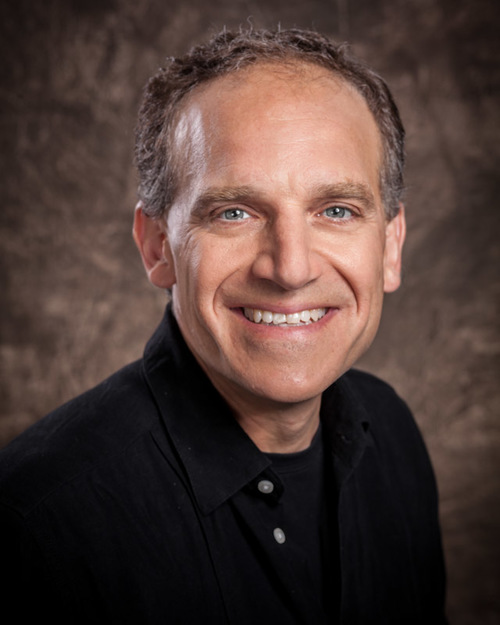
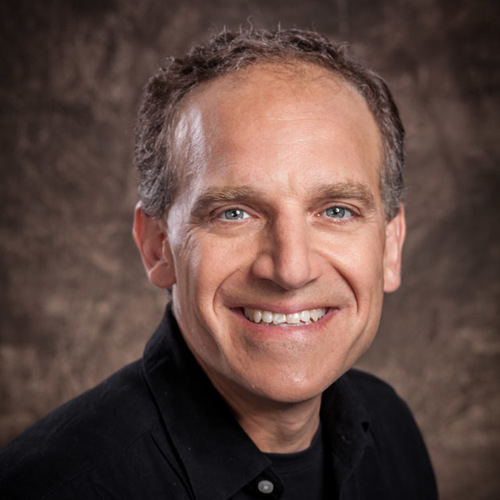
Fixed #63, moved pixi to canvas

diff --git a/static/src/assets/js/viz.js b/static/src/assets/js/viz.js
@@ -1,5 +1,5 @@
 import d3 from 'd3'
-import PIXI from 'pixi.js'
+
 
 /**
  * Voronoi graph as an illustration of dividing cells.
@@ -7,16 +7,19 @@ import PIXI from 'pixi.js'
  * @return {none}    just calls render() at the end
  */
 export default function(id) {
+  const canvas = document.createElement('canvas')
   // ==== PIXI renderer ====
-  const W = window.innerWidth
-  const H = window.innerHeight
-  const renderer = new PIXI.autoDetectRenderer(W, H, { transparent: true, antialias: true })
-  document.getElementById(id).appendChild(renderer.view)
+  const W = canvas.width = window.innerWidth
+  const H = canvas.height = window.innerHeight
+  // const renderer = new PIXI.autoDetectRenderer(W, H, { transparent: true, antialias: true })
+  document.getElementById(id).appendChild(canvas)
+
+  const ctx = canvas.getContext('2d')
 
   // PIXI stage and graphics child
-  let stage = new PIXI.Container()
-  let graphics = new PIXI.Graphics()
-  stage.addChild(graphics)
+  // let stage = new PIXI.Container()
+  // let graphics = new PIXI.Graphics()
+  // stage.addChild(graphics)
 
   // ==== Nodes ====
   const numFactor = 10000
@@ -55,17 +58,19 @@ export default function(id) {
 
   // ==== Render ====
   const draw = () => {
-    graphics.clear()
+    clear()
 
     const path = voronoi(nodes)
-    graphics.lineStyle(2, 0xffffff, 1)
+    ctx.lineWidth = 2
+    ctx.strokeStyle = '#ffffff'
     for (let i=0; i < path.length; i++) {
+      ctx.beginPath()
       const p = path[i]
 
       // Midpoint between first and last points
       const cX = (p[0][0] + p[p.length-1][0]) / 2
       const cY = (p[0][1] + p[p.length-1][1]) / 2
-      graphics.moveTo(cX, cY)
+      ctx.moveTo(cX, cY)
 
       // Generate a midpoint between p0-p1, p1-p2, pn-pm,
       // until pm is the last point
@@ -75,41 +80,55 @@ export default function(id) {
         const mpX = (p[j][0] + p[j+1][0]) / 2
         const mpY = (p[j][1] + p[j+1][1]) / 2
 
-        graphics.quadraticCurveTo(p[j][0], p[j][1], mpX, mpY)
+        ctx.quadraticCurveTo(p[j][0], p[j][1], mpX, mpY)
       }
 
       // Complete the shape with curve from midpoint of pn-pm,
       // using pm (last point) as control, to cX,cY
-      graphics.quadraticCurveTo(p[p.length-1][0], p[p.length-1][1], cX, cY)
+      ctx.quadraticCurveTo(p[p.length-1][0], p[p.length-1][1], cX, cY)
+
+      ctx.closePath()
+      ctx.stroke()
     }
 
     const links = voronoi.links(nodes)
-    graphics.lineStyle(2, 0xffffff, 0.1)
+    ctx.strokeStyle = 'rgba(255,255,255,0.1)'
     for (let i=0; i < links.length; i++) {
       const { source, target } = links[i]
 
-      graphics.moveTo(source.x, source.y)
-      graphics.lineTo(target.x, target.y)
+      ctx.beginPath(0)
+
+      ctx.moveTo(source.x, source.y)
+      ctx.lineTo(target.x, target.y)
+
+      ctx.closePath()
+      ctx.stroke()
     }
 
 
-    graphics.lineStyle(0)
-    // graphics.lineStyle(2, 0x578ed6, 1)
-    graphics.beginFill(0xffffff, 0.5)
+    ctx.fillStyle = 'rgba(255,255,255,0.5)'
     for (let i=0; i < nodes.length; i++) {
       const { x, y, radius } = nodes[i]
 
-      graphics.drawCircle(x, y, radius)
+      ctx.beginPath()
+      ctx.arc(x, y, radius, 0, Math.PI*2)
+      ctx.closePath()
+
+      ctx.fill()
     }
   }
 
+  const clear = () => {
+    ctx.clearRect(0,0,W,H)
+  }
+
   const render = () => {
+    clear()
     draw()
-    renderer.render(stage)
+
     requestAnimationFrame(render)
   }
 
   // render()
   draw()
-  renderer.render(stage)
 }

diff --git a/static/src/index.js b/static/src/index.js
@@ -1,5 +1,6 @@
 import React, { Component } from 'react'
 import { connect } from 'react-redux'
+import { canUseDOM } from 'fbjs/lib/ExecutionEnvironment'
 
 import mount from './mount.js'
 
@@ -12,8 +13,7 @@ import './styles/Home.scss'
 
 import viz from './assets/js/viz.js'
 
-import { canUseDOM } from 'fbjs/lib/ExecutionEnvironment'
-
+// Markdown
 import about from './markdown/about.md'
 import why from './markdown/why.md'
 import overview from './markdown/overview.md'
@@ -22,7 +22,6 @@ import faq from './markdown/faq.md'
 class Index extends Component {
   componentDidMount() {
     viz('viz')
-    console.log('home mounted')
   }
 
   render() {

diff --git a/static/src/assets/js/timeline.js b/static/src/assets/js/timeline.js
@@ -14,7 +14,7 @@ export default {
         machine learning.
       </p>
       <div class="headshot-wrapper">
-        <img class="headshot" src="/img/BrendanFrey.jpg" />
+        <img class="headshot" src="/img/BrendanFrey2.jpg" />
       </div>
     `
   },
